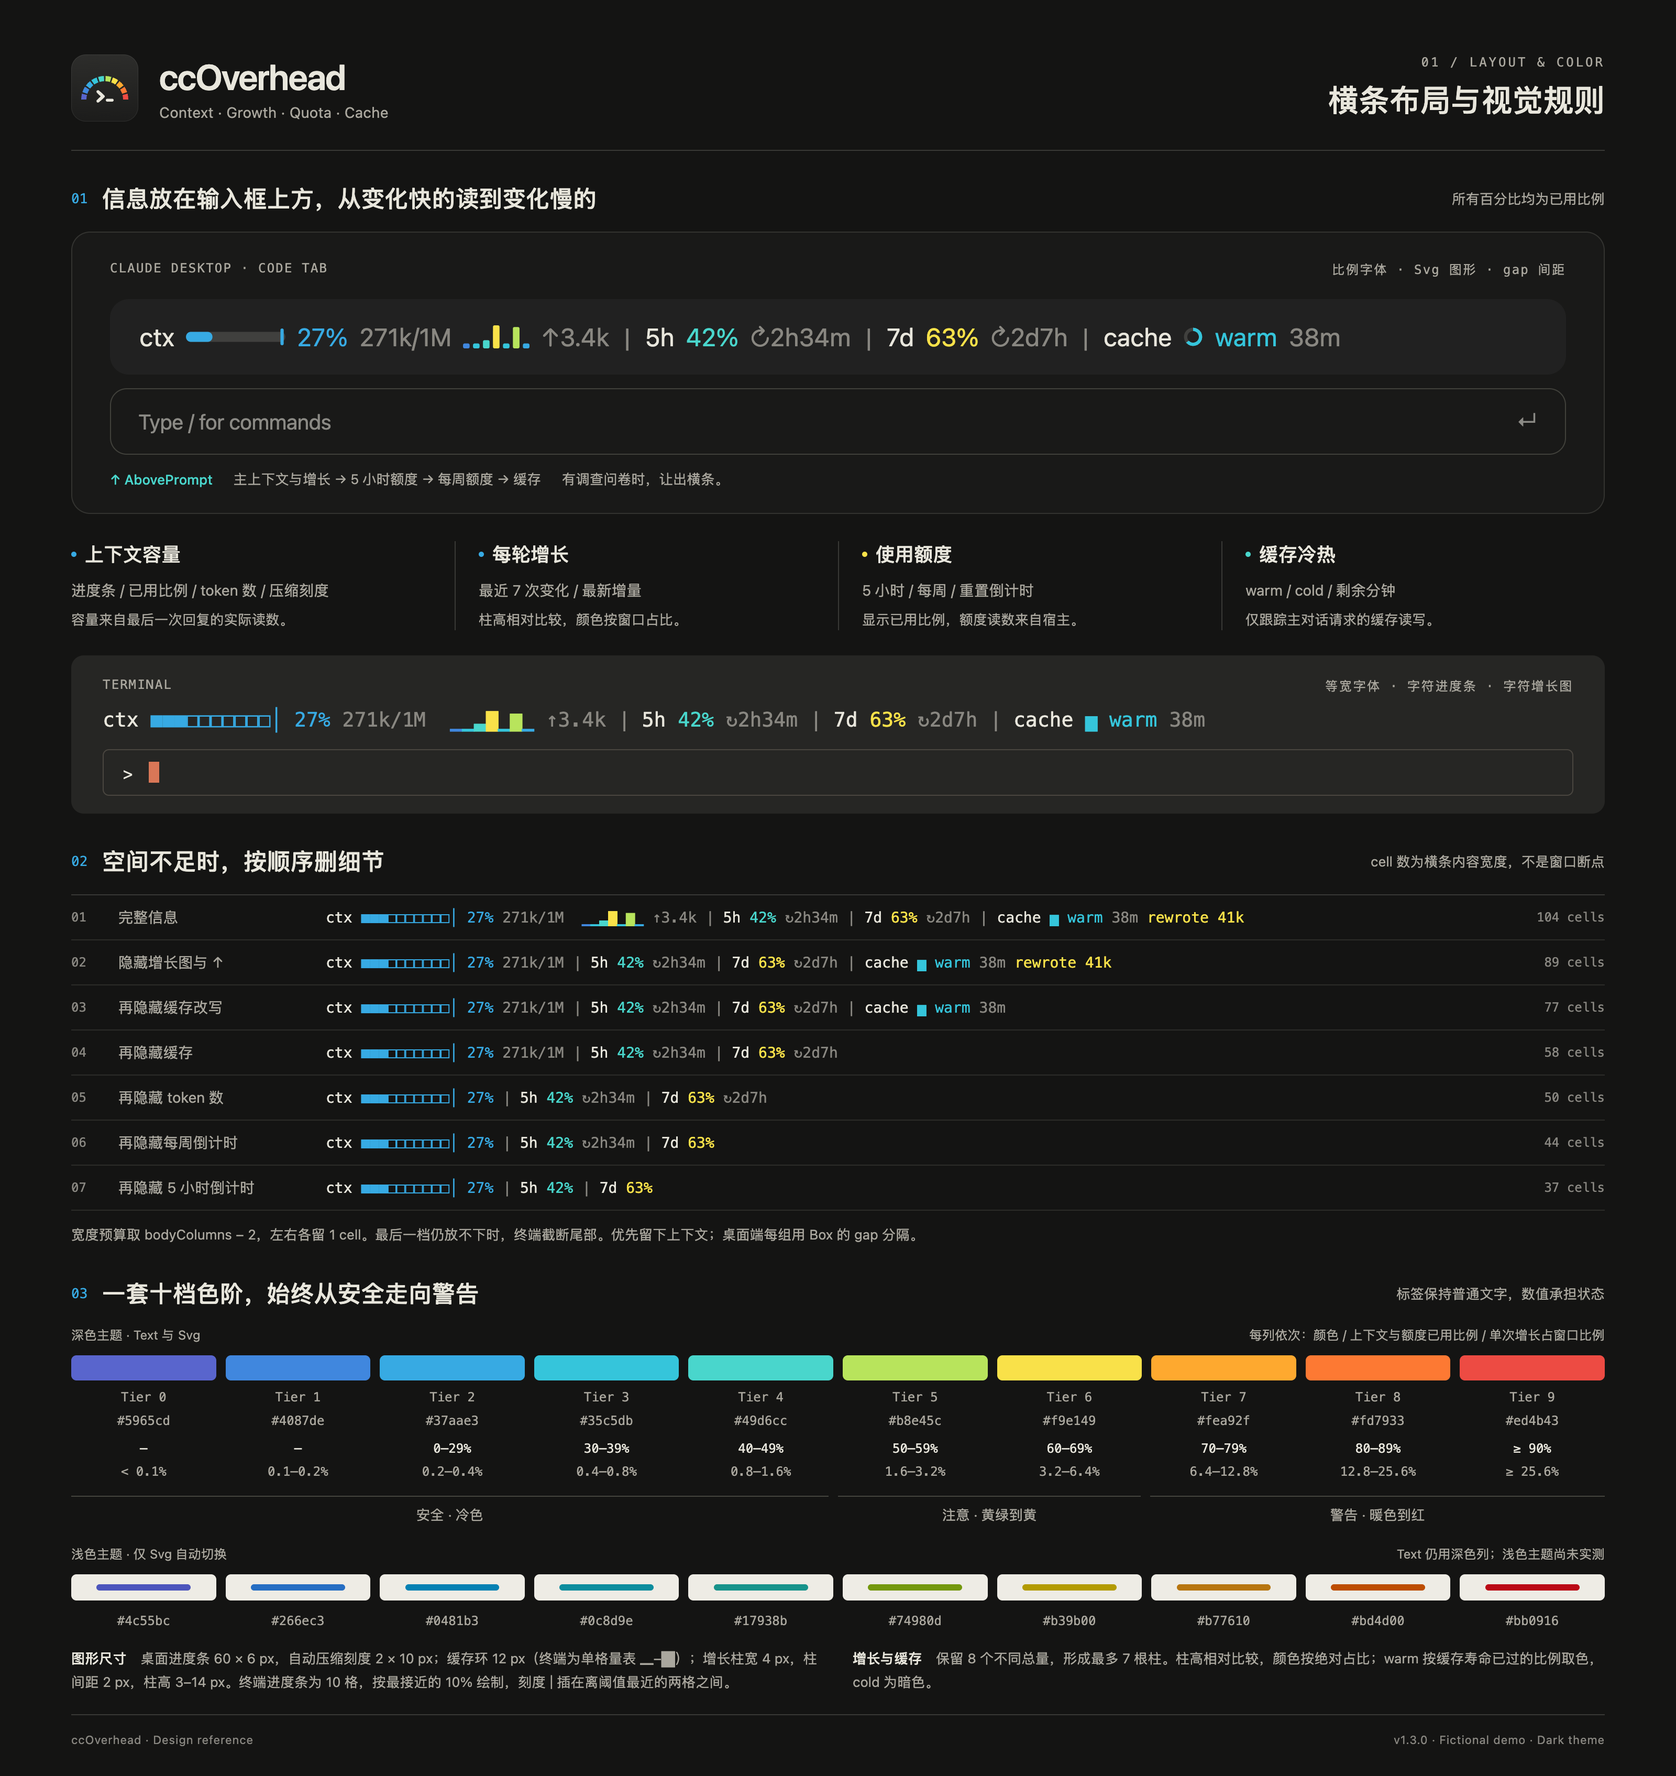
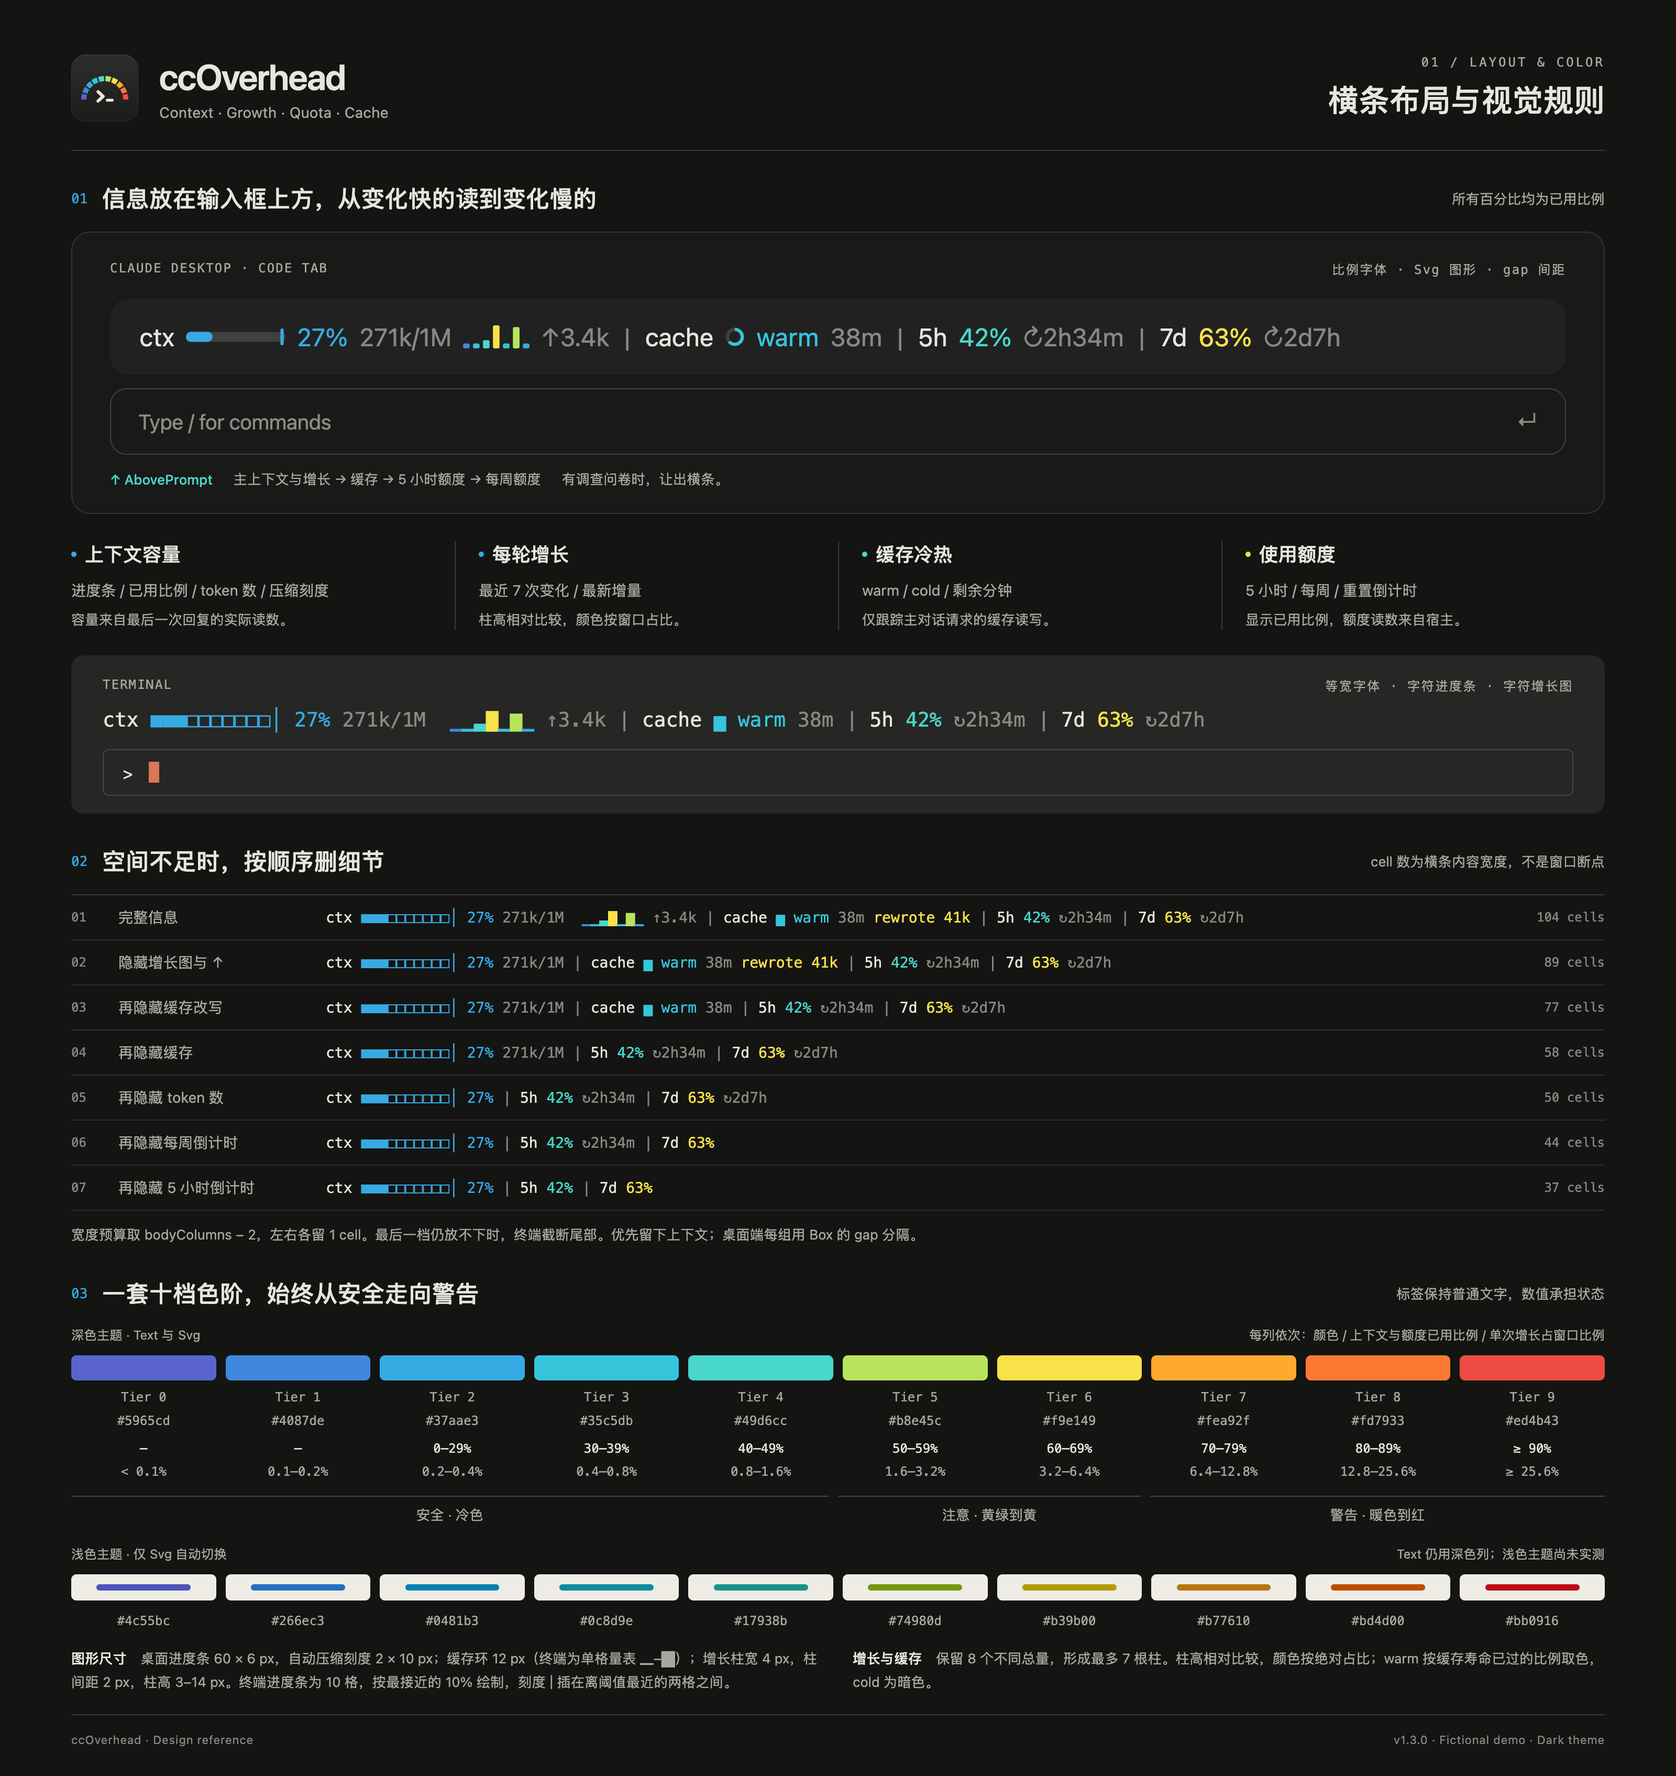
Put the cache group before the quota groups
The conversation's own state (context, cache) reads first, the account's quota after it.

diff --git a/scripts/screenshot/design.ts b/scripts/screenshot/design.ts
@@ -36,8 +36,8 @@ const full = fit(band, 110)
 const featureDescriptions = [
   ['上下文容量', '进度条 / 已用比例 / token 数 / 压缩刻度', '容量来自最后一次回复的实际读数。', 'ctx'],
   ['每轮增长', '最近 7 次变化 / 最新增量', '柱高相对比较，颜色按窗口占比。', 'growth'],
-  ['使用额度', '5 小时 / 每周 / 重置倒计时', '显示已用比例，额度读数来自宿主。', 'quota'],
   ['缓存冷热', 'warm / cold / 剩余分钟', '仅跟踪主对话请求的缓存读写。', 'cache'],
+  ['使用额度', '5 小时 / 每周 / 重置倒计时', '显示已用比例，额度读数来自宿主。', 'quota'],
 ]
 const steps = ['完整信息', '隐藏增长图与 ↑', '再隐藏缓存改写', '再隐藏缓存', '再隐藏 token 数', '再隐藏每周倒计时', '再隐藏 5 小时倒计时']
 // A turn that rewrote the cache, so the narrowing table shows that step too.
@@ -184,9 +184,9 @@ const layout = `
     <div class="surface-label"><span>CLAUDE DESKTOP · CODE TAB</span><span>比例字体 · Svg 图形 · gap 间距</span></div>
     <div class="desktop-band"><div class="band-row">${desktop(full)}</div></div>
     <div class="input-line"><span>Type / for commands</span><span>↵</span></div>
-    <div class="surface-caption"><b>↑ AbovePrompt</b><span>主上下文与增长 → 5 小时额度 → 每周额度 → 缓存</span><span>有调查问卷时，让出横条。</span></div>
+    <div class="surface-caption"><b>↑ AbovePrompt</b><span>主上下文与增长 → 缓存 → 5 小时额度 → 每周额度</span><span>有调查问卷时，让出横条。</span></div>
   </div>
-  <div class="feature-grid">${featureDescriptions.map((d, i) => `<div class="feature"><div class="feature-top"><span class="dot" style="background:${i < 2 ? inks[2] : i === 2 ? inks[6] : inks[4]}"></span><h3>${d[0]}</h3></div><div class="detail">${d[1]}</div><div class="rule">${d[2]}</div></div>`).join('')}</div>
+  <div class="feature-grid">${featureDescriptions.map((d, i) => `<div class="feature"><div class="feature-top"><span class="dot" style="background:${i < 2 ? inks[2] : i === 2 ? inks[4] : inks[6]}"></span><h3>${d[0]}</h3></div><div class="detail">${d[1]}</div><div class="rule">${d[2]}</div></div>`).join('')}</div>
   <div class="terminal-demo"><div class="surface-label"><span>TERMINAL</span><span>等宽字体 · 字符进度条 · 字符增长图</span></div><div class="terminal-line">${terminal(full)}</div><div class="terminal-prompt"><span>&gt;</span><span class="cursor"></span></div></div>
   <div class="section-heading"><span class="index">02</span><h2>空间不足时，按顺序删细节</h2><span class="aside">cell 数为横条内容宽度，不是窗口断点</span></div>
   <div class="responsive-table">${responsive}</div>
@@ -246,7 +246,7 @@ const english: Record<string, string> = {
   '信息放在输入框上方，从变化快的读到变化慢的': 'Above the prompt. Fast signals first.',
   '所有百分比均为已用比例': 'All percentages show usage',
   '比例字体 · Svg 图形 · gap 间距': 'Proportional font · Svg graphics · gap spacing',
-  '主上下文与增长 → 5 小时额度 → 每周额度 → 缓存': 'Context & growth → 5-hour quota → weekly quota → cache',
+  '主上下文与增长 → 缓存 → 5 小时额度 → 每周额度': 'Context & growth → cache → 5-hour quota → weekly quota',
   '有调查问卷时，让出横条。': 'Yield the band to a survey.',
   '上下文容量': 'Context window',
   '进度条 / 已用比例 / token 数 / 压缩刻度': 'Bar / used percentage / tokens / compaction mark',

diff --git a/site/index.html b/site/index.html
@@ -110,6 +110,11 @@
             <span class="group-token sparkline">▁▂▄█▂▇▁</span>
             <span class="group-token dim">↑3.4k</span>
             <span class="sep">|</span>
+            <span class="group-token label">cache</span>
+            <span class="group-token tier-cyan">▆</span>
+            <span class="group-token tier-cyan">warm</span>
+            <span class="group-token dim">38m</span>
+            <span class="sep">|</span>
             <span class="group-token label">5h</span>
             <span class="group-token tier-teal">42%</span>
             <span class="group-token dim">↻2h34m</span>
@@ -117,11 +122,6 @@
             <span class="group-token label">7d</span>
             <span class="group-token tier-yellow">63%</span>
             <span class="group-token dim">↻2d7h</span>
-            <span class="sep">|</span>
-            <span class="group-token label">cache</span>
-            <span class="group-token tier-cyan">▆</span>
-            <span class="group-token tier-cyan">warm</span>
-            <span class="group-token dim">38m</span>
           </div>
 
           <div class="band-breakdown">
@@ -142,6 +142,13 @@
             <div class="breakdown-item">
               <span class="dot tier-teal-dot"></span>
               <div>
+                <h4>Prompt Cache</h4>
+                <p>A gauge of the lifetime left, <code>warm</code> with remaining minutes, warming in color as it drains, or <code>cold</code>. <code>rewrote</code> shows when a turn had to write the cache again.</p>
+              </div>
+            </div>
+            <div class="breakdown-item">
+              <span class="dot tier-teal-dot"></span>
+              <div>
                 <h4>5-Hour Quota</h4>
                 <p>Percentage of the rolling 5-hour window used, with countdown <code>↻</code> to reset.</p>
               </div>
@@ -151,13 +158,6 @@
               <div>
                 <h4>Weekly Quota</h4>
                 <p>Weekly window with countdown. Follows the model family's own window (e.g. <code>7d fable</code>) when reported.</p>
-              </div>
-            </div>
-            <div class="breakdown-item">
-              <span class="dot tier-teal-dot"></span>
-              <div>
-                <h4>Prompt Cache</h4>
-                <p>A gauge of the lifetime left, <code>warm</code> with remaining minutes, warming in color as it drains, or <code>cold</code>. <code>rewrote</code> shows when a turn had to write the cache again.</p>
               </div>
             </div>
           </div>

diff --git a/plugin/hooks/format.ts b/plugin/hooks/format.ts
@@ -339,14 +339,15 @@ function cacheGroup(b: BandInput, cache: OverheadCache, d: Detail): Span[] {
   return g
 }
 
-// The band's groups, each a run of spans; drawn with a dim " | " between groups. The session's own state
-// first (context and its growth), then the account's quota, then the cache, so a narrow band cuts the
-// slow-moving groups before the context.
+// The band's groups, each a run of spans; drawn with a dim " | " between groups. The conversation's own state
+// first (context and its growth, then the cache, which every request renews), then the account's quota,
+// which moves slowest; narrowing drops details by `DEGRADE`, and a truncated end cuts the quota first.
 export function groups(b: BandInput, d: Detail): Span[][] {
   const out: Span[][] = []
 
   if (b.view) out.push(agentGroup(b, b.view, d))
   else if (b.ctx && b.ctx.window > 0) out.push(contextGroup(b, b.ctx, d))
+  if (d.cache && b.cache) out.push(cacheGroup(b, b.cache, d))
 
   const weekly = weeklyWindow(b.limits, b.model)
   const windows: [l: OverheadLimit | undefined, label: string, showReset: boolean][] = [
@@ -370,7 +371,6 @@ export function groups(b: BandInput, d: Detail): Span[][] {
     )
   }
 
-  if (d.cache && b.cache) out.push(cacheGroup(b, b.cache, d))
   return out
 }
 

diff --git a/plugin/tests/ccoverhead.test.ts b/plugin/tests/ccoverhead.test.ts
@@ -105,9 +105,9 @@ describe('ccoverhead', () => {
       }
       // A freshly warm cache is safe: the first percentage tier, sky.
       expect((await ui.find({ type: 'Text', text: /^ ?warm$/ }))?.props.color).toBe(TIER_HEX[2])
-      // Context first, then the quota, the cache last.
+      // The conversation's state first (context, then cache), then the account's quota.
       const order = (await ui.findAll({ type: 'Text' })).map(t => t.text.trim())
-      expect(order.indexOf('ctx') < order.indexOf('5h') && order.indexOf('5h') < order.indexOf('7d') && order.indexOf('7d') < order.indexOf('cache')).toBe(true)
+      expect(order.indexOf('ctx') < order.indexOf('cache') && order.indexOf('cache') < order.indexOf('5h') && order.indexOf('5h') < order.indexOf('7d')).toBe(true)
       expect(await ui.find({ type: 'Text', text: /^ ?1h0m$/ })).toBeDefined()
 
       // Compaction: total drops, history restarts, sparkline hides.

diff --git a/README.zh-CN.md b/README.zh-CN.md
@@ -23,7 +23,7 @@
 <p align="center"><a href="https://shengyy.github.io/ccoverhead/"><strong>网站</strong></a></p>
 
 <p align="center">
-  <img src="assets/screenshots/desktop.png" width="760" alt="Claude 桌面端里的 ccOverhead 横条：上下文条 27%、末端是自动压缩刻度、七根颜色各异的增长柱、5 小时额度 42%、每周额度 63%、缓存环与「还热 38 分钟」">
+  <img src="assets/screenshots/desktop.png" width="760" alt="Claude 桌面端里的 ccOverhead 横条：上下文条 27%、末端是自动压缩刻度、七根颜色各异的增长柱、缓存环与「还热 38 分钟」、5 小时额度 42%、每周额度 63%">
 </p>
 
 ---
@@ -69,16 +69,16 @@
 横条从左到右，依次是每轮都在变的、变化慢的：
 
 ```text
-ctx ■■■□□□□□□□│ 27% 271k/1M  ▁▁▃█▁▇▁ ↑3.4k | 5h 42% ↻2h34m | 7d 63% ↻2d7h | cache ▆ warm 38m
+ctx ■■■□□□□□□□│ 27% 271k/1M  ▁▁▃█▁▇▁ ↑3.4k | cache ▆ warm 38m | 5h 42% ↻2h34m | 7d 63% ↻2d7h
 ```
 
 | 组 | 含义 |
 |---|---|
 | `ctx` | 上下文用量：进度条、百分比、token 数。`│` 是自动压缩触发的位置，`~` 表示第一个回复前的估算值。正在看 subagent 的记录时显示为 `agent` |
 | 柱子和 `↑` | 最近七轮各自加了多少；`↑` 是最后一轮 |
+| `cache` | 剩余寿命的小量表、`warm` 加剩余分钟数，或 `cold`；某一轮重新写入缓存而没能读到时，显示 `rewrote` 和写入量 |
 | `5h`、`7d` | 各窗口的额度已用比例，`↻` 是距离重置的时间。暗色表示沿用上一个会话的读数。Claude Code 上报了当前主模型自己的周额度时，`7d` 改显示它，例如 `7d fable`（未验证） |
 | `spend` | Claude 网关上报的花费额度，可能超过 100%（未验证） |
-| `cache` | 剩余寿命的小量表、`warm` 加剩余分钟数，或 `cold`；某一轮重新写入缓存而没能读到时，显示 `rewrote` 和写入量 |
 
 颜色是同一条从冷到暖的 10 档色阶。百分比（上下文和额度）每 10% 升一档：0–29% 天蓝，90% 及以上深红；每根增长柱按它占窗口的比例落档，从 0.1% 起每翻一倍升一档。完整对照表见 [docs/design.md](docs/design.md#color-scale)。窗口变窄时，横条依次省掉柱状图、缓存和其它细节，上下文保留得最久。
 

diff --git a/README.md b/README.md
@@ -23,7 +23,7 @@
 <p align="center"><a href="https://shengyy.github.io/ccoverhead/"><strong>Website</strong></a></p>
 
 <p align="center">
-  <img src="assets/screenshots/desktop.png" width="760" alt="The ccOverhead band in the Claude desktop app: a context bar at 27 percent with the auto-compaction tick at its end, a seven-bar growth chart in mixed colours, 5-hour quota 42 percent, weekly quota 63 percent, a cache ring, warm for 38 minutes">
+  <img src="assets/screenshots/desktop.png" width="760" alt="The ccOverhead band in the Claude desktop app: a context bar at 27 percent with the auto-compaction tick at its end, a seven-bar growth chart in mixed colours, a cache ring, warm for 38 minutes, 5-hour quota 42 percent, weekly quota 63 percent">
 </p>
 
 ---
@@ -89,16 +89,16 @@ Remove with `/plugin uninstall ccoverhead@ccoverhead`.
 The band reads left to right, from what changes every turn to what changes slowly:
 
 ```text
-ctx ■■■□□□□□□□│ 27% 271k/1M  ▁▁▃█▁▇▁ ↑3.4k | 5h 42% ↻2h34m | 7d 63% ↻2d7h | cache ▆ warm 38m
+ctx ■■■□□□□□□□│ 27% 271k/1M  ▁▁▃█▁▇▁ ↑3.4k | cache ▆ warm 38m | 5h 42% ↻2h34m | 7d 63% ↻2d7h
 ```
 
 | Group | Meaning |
 |---|---|
 | `ctx` | Context used: bar, percentage, tokens. `│` marks where auto-compaction runs. `~` marks the pre-response estimate. Reads `agent` while a subagent's transcript is on screen |
 | Bars and `↑` | What each of the last seven turns added; `↑` is the latest turn |
+| `cache` | A gauge of the lifetime left, `warm` and its minutes, or `cold`; `rewrote` and its tokens on a turn that wrote the cache again instead of reading it |
 | `5h`, `7d` | Quota used in each window, and `↻` the time until it resets. Dim when remembered from an earlier session. `7d` follows the main model's own weekly window when Claude Code reports one, such as `7d fable` (not verified) |
 | `spend` | A Claude gateway's spend limit, when reported; it can pass 100% (not verified) |
-| `cache` | A gauge of the lifetime left, `warm` and its minutes, or `cold`; `rewrote` and its tokens on a turn that wrote the cache again instead of reading it |
 
 Colors follow one ten-step scale from cool to warm. Percentages (context and quota) move one step per 10%
 from sky blue at 0–29% to red at 90% and above; each growth bar takes a step by its share of the window,

diff --git a/docs/design.md b/docs/design.md
@@ -7,13 +7,13 @@ figures, warm ones only when something deserves attention. What it shows and whe
 ## The band
 
 ```text
-ctx ■■■□□□□□□□│ 27% 271k/1M  ▁▁▃█▁▇▁ ↑3.4k | 5h 42% ↻2h34m | 7d 63% ↻2d7h | cache ▆ warm 38m
+ctx ■■■□□□□□□□│ 27% 271k/1M  ▁▁▃█▁▇▁ ↑3.4k | cache ▆ warm 38m | 5h 42% ↻2h34m | 7d 63% ↻2d7h
 ```
 
 - Groups, left to right: context (bar with the auto-compaction mark, percentage, tokens, growth chart,
-  `↑` latest growth), 5-hour quota, weekly quota, `spend` (a gateway's spend limit, when reported), cache
-  (a gauge, `warm` and the minutes left, or `cold`; then `rewrote` and its tokens on a turn that rewrote the
-  cache). A dim ` | ` separates groups.
+  `↑` latest growth), cache (a gauge, `warm` and the minutes left, or `cold`; then `rewrote` and its tokens
+  on a turn that rewrote the cache), 5-hour quota, weekly quota, `spend` (a gateway's spend limit, when
+  reported). A dim ` | ` separates groups.
 - The terminal's cache gauge is one block glyph of the lifetime left, `█` fresh down to `▁` in its last
   eighth, in `warm`'s color: the terminal's form of the desktop's ring.
 - The terminal draws the auto-compaction mark `│` between the two cells nearest the threshold, at least one

diff --git a/PRODUCT.md b/PRODUCT.md
@@ -36,8 +36,9 @@ It shows figures; it never acts on them. Compacting, pausing or switching models
 
 ### The band
 
-- Groups read left to right from what changes every turn to what changes slowly: context with its growth
-  chart, the 5-hour window, the weekly window, a gateway's spend limit, the cache.
+- Groups read left to right from what changes every turn to what changes slowly: the conversation's own
+  state first (context with its growth chart, then the cache, which every request renews), then the
+  account's quota (the 5-hour window, the weekly window, a gateway's spend limit).
 - When the band is too narrow it drops, in order, the growth chart, the cache rewrite, the cache, the
   context token counts, the weekly and spend resets, the 5-hour reset, then truncates. The context stays
   longest.
